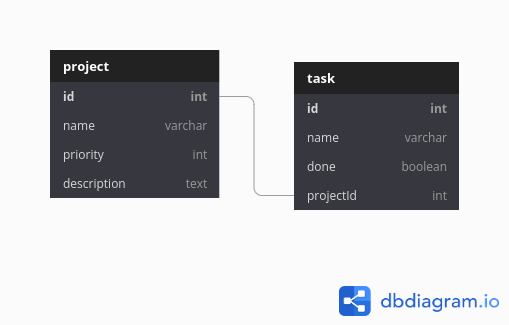
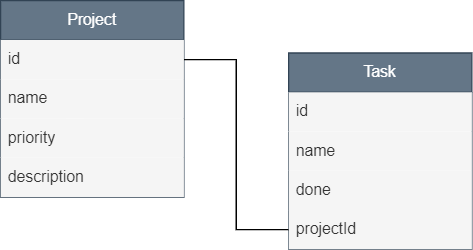
readme

diff --git a/README.md b/README.md
@@ -1,0 +1,22 @@
+# Nodejs RESTAPI sqlite | typescript
+
+This is a simple REST API using Hexagonal Architecture
+
+• nodejs
+
+• typescript
+
+• express
+
+• sqlite
+
+• sequelize
+
+• jest / supertest 
+
+• rsdi 
+
+# Modeling
+This is the basic relationship that i using
+
+![Alt text](src/assets/diagram.png)
